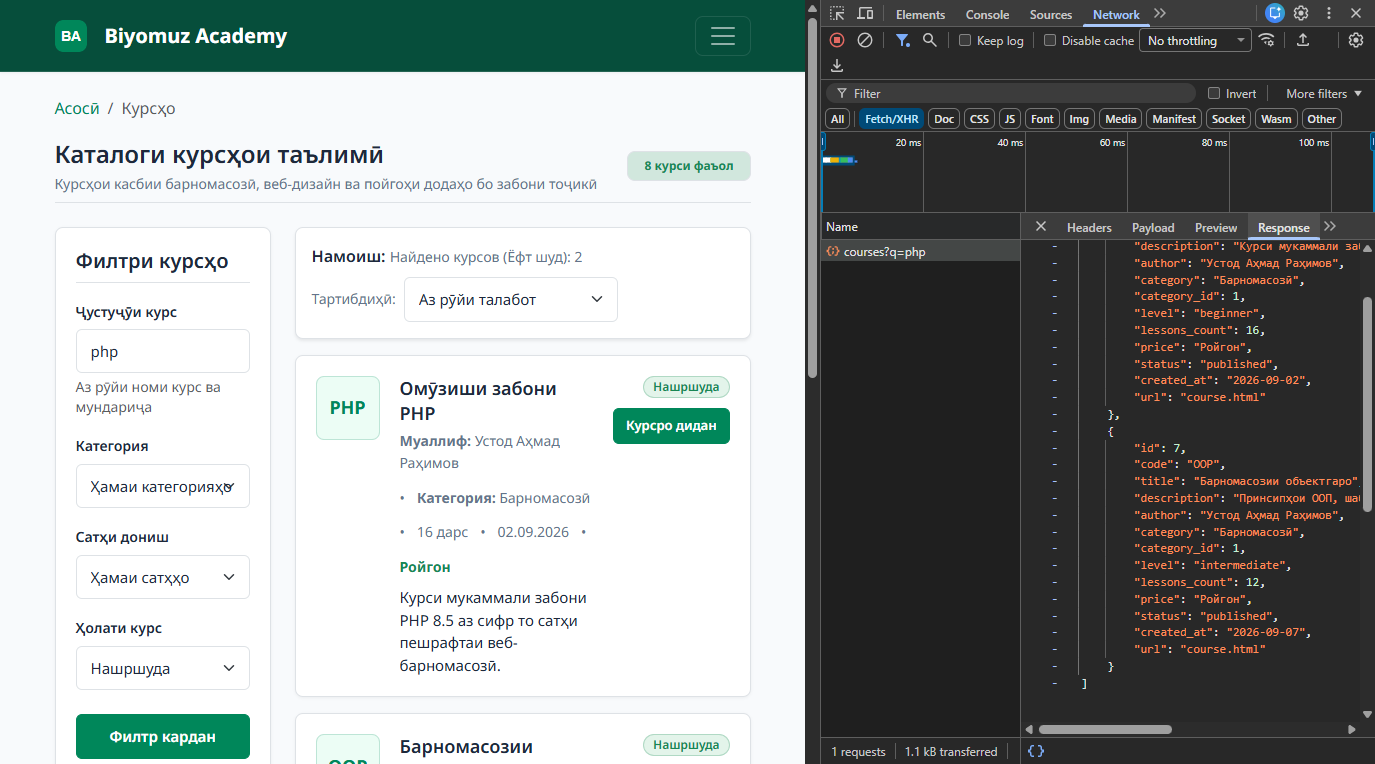
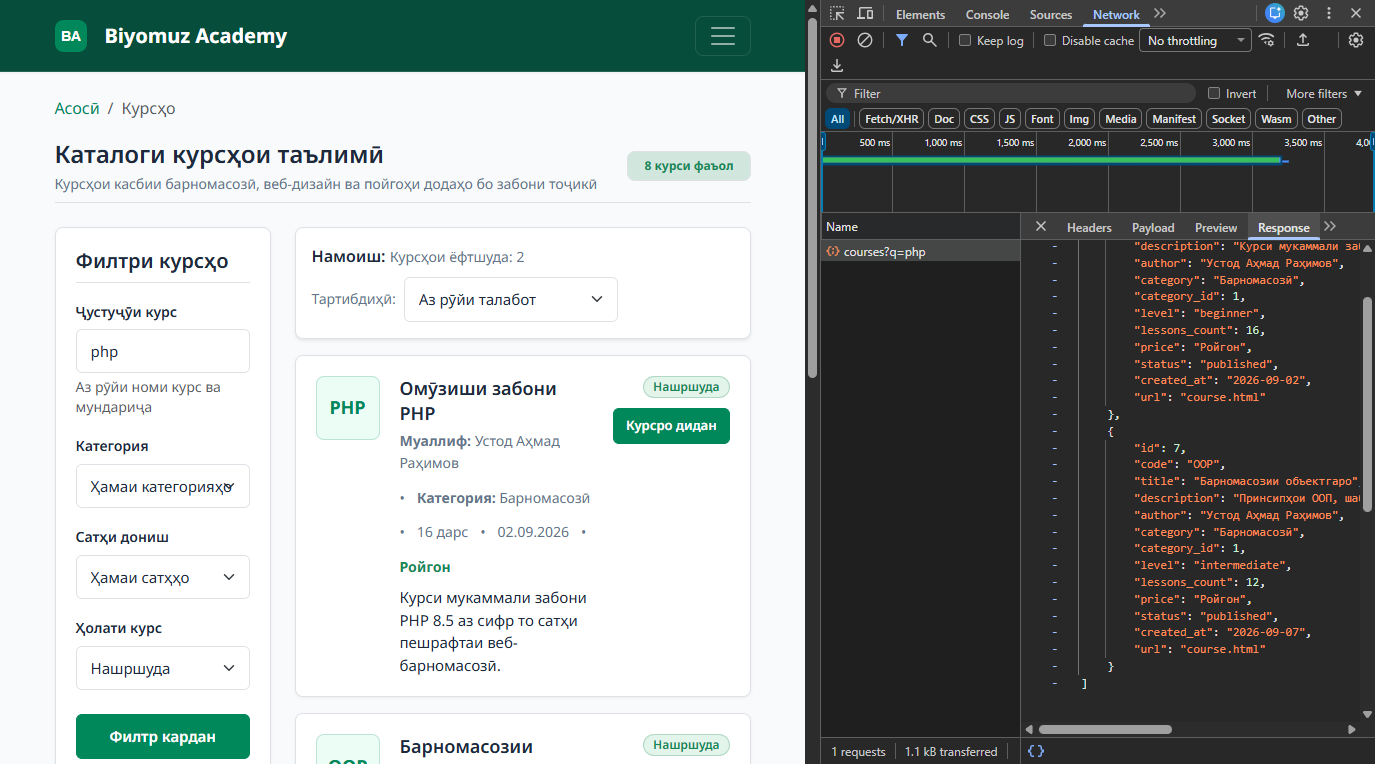
docs(lab-11): update Tajik live-search evidence

Changed region(s): [[0.5804, 0.1204, 0.9775, 0.2408], [0.2749, 0.3312, 0.4276, 0.3613]]

diff --git a/docs/11-screens/README.md b/docs/11-screens/README.md
@@ -40,6 +40,6 @@
 ## 3. Феҳристи 4 скриншоти воқеии браузер (`docs/11-screens/`)
 
 1. **`01-registration-validation-errors.png`** — Саҳифаи `register.html` пас аз санҷиши майдонҳои холӣ, Email-и нодуруст ва номувофиқатии рамзҳо (`setCustomValidity`): намоиши синфи `.is-invalid` ва паёмҳои хатогӣ ба забони русӣ дар зери майдонҳо.
-2. **`02-course-search-network.png`** — Саҳифаи `courses.html` дар канори панели воқеии **Chrome DevTools → Network → Fetch/XHR**: дархости ягонаи `courses?q=php` пас аз `debounce` (300 мс), статуси `200`, `1.1 kB`, ва ҷавоби JSON дар табақаи `Response`.
+2. **`02-course-search-network.png`** — Саҳифаи `courses.html` (бо натиҷаи тоҷикии «Курсҳои ёфтшуда: 2» ва ду корти курс) дар канори панели воқеии **Chrome DevTools → Network → Fetch/XHR**: дархости ягонаи `courses?q=php` пас аз `debounce` (300 мс), статуси `200`, `1.1 kB`, ва ҷавоби JSON дар табақаи `Response`.
 3. **`03-xss-safe-text.png`** — Намоиши сабти санҷишии XSS (`<img src=x onerror="alert('XSS')"> Тести Biyomuz`) дар каталоги `courses.html` ва ҷадвали он тавассути `textContent` ҳамчун матни одӣ (бе иҷрои HTML ва JS).
 4. **`04-delete-confirmation-modal.png`** — Саҳифаи `author-courses.html` пас аз ҷустуҷӯи зинда бо равзанаи кушодаи модалии `#confirm-delete-modal` ва намоиши номи курси интихобшуда.
